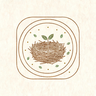
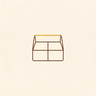
brand: 图标更新为「匣」意象(分格匣·线条)+站点更名qixia(rom=栖匣)·英文不再生搬硬套+红v82

Changed region(s): [[0.1562, 0.1562, 0.8438, 0.8438]]

diff --git a/index.html b/index.html
@@ -1,5 +1,5 @@
 <!DOCTYPE html>
-<html lang="zh-CN" data-app="nestbox" data-author="尹平平" data-ver="2026.08.28.3"><head><meta http-equiv="Content-Type" content="text/html; charset=UTF-8">
+<html lang="zh-CN" data-app="nestbox" data-author="尹平平" data-ver="2026.08.28.4"><head><meta http-equiv="Content-Type" content="text/html; charset=UTF-8">
 <!-- 栖匣 —— 原创作品，作者：尹平平。整体架构、界面、内容均受《中华人民共和国著作权法》保护；未获书面授权，禁止整站复制、二次开发后冒名发布或用于牟利。 -->
 <svg width="0" height="0" style="position:absolute" aria-hidden="true"><defs><linearGradient id="plBg" x1="0%" y1="0%" x2="100%" y2="100%"><stop offset="0%" stop-color="#4A3427"/><stop offset="100%" stop-color="#33291F"/></linearGradient><radialGradient id="plSun" cx="45%" cy="35%" r="80%"><stop offset="0%" stop-color="#FFF7E2"/><stop offset="60%" stop-color="#F6CF72"/><stop offset="100%" stop-color="#EFAD46"/></radialGradient></defs></svg>
 
@@ -12642,16 +12642,16 @@ if(document.readyState==='loading'){document.addEventListener('DOMContentLoaded'
 /* ═══════ 栖匣 · 版本自检 / 更新日志 / 更新提示(非强制) / 无痕与容量告警 ═══════
    纯前端、增量模块：只读公开的版本标记文本与本地数据完整性，绝不读取、上传任何个人数据。 */
 (function(){
-  var V='2026.08.28.3';
+  var V='2026.08.28.4';
   var VFILE='pwa/version.txt';
   function $(id){return document.getElementById(id);}
   function esc(s){return String(s==null?'':s).replace(/[&<>"]/g,function(c){return{'&':'&amp;','<':'&lt;','>':'&gt;','"':'&quot;'}[c];});}
 
   var CHANGES=[
-    {v:'2026.08.28',t:'品牌级视觉焕新 · 手作徽章图标',tag:'品牌 / 图标',blocks:[
-      '· 全新主图标：以木刻版画手作感塑造「栖巢－幼苗」火漆徽章，喻「安放 → 生长」；统一各尺寸与应用启动屏，摒弃生硬 3D 塑感。',
-      '· 产品顶部命名回归「栖匣 · 心有所栖 · 匣纳成长」，品牌口径唯一、更为克制高级。',
-      '· 站点英文身份更名 Roost（即"栖"：安放与归来）；旧地址自动跳转至新址。'
+    {v:'2026.08.28',t:'品牌级视觉焕新 · 「匣」意象图标',tag:'品牌 / 图标',blocks:[
+      '· 全新主图标回归「匣」本义：一只分门别类的匣，把学业、目标、时间、笔记等一并安放收纳；极简线条、克制留白、一处金色点睛，克制而高级。',
+      '· 产品命名保持「栖匣 · 心有所栖 · 匣纳成长」，品牌口径唯一。',
+      '· 站点英文身份为栖匣的罗马音 Qixia，与中文一一对应，不再采用生搬硬套的译名；新旧地址均自动跳转至新址。'
     ]},
     {v:'2026.08.28',t:'全维度体验优化（交互 / 主题 / 数据 / 无障碍）',tag:'体验',blocks:[
       '· 导航升级：子页面顶部新增可点击面包屑（返回上级/首页）；侧边栏板块展开收起加柔和动画并记忆状态；新增「我的收藏」快捷板块，收藏状态刷新后保留。',

diff --git a/sw.js b/sw.js
@@ -13,7 +13,7 @@
  *    从未开通过的首次断网打开无法生效（还什么缓存都没有）。
  *  - 导航采用「网络优先」，联网取最新、断网用缓存兜底。
  */
-const CACHE = 'qixia-roost-v81';
+const CACHE = 'qixia-v82';
 const SCOPE = new URL('./', self.location);          // 站点根目录
 const ROOT  = SCOPE.href;                            // 如 /pingwanxiang/
 const INDEX = new URL('./index.html', SCOPE).href;   // 主页绝对地址
